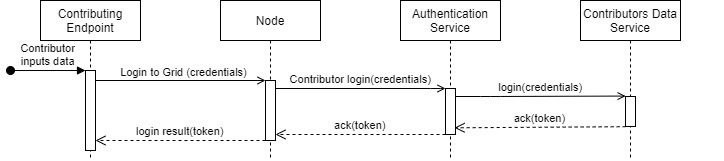
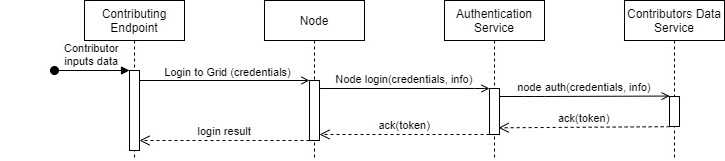
commented Contributor's login

diff --git a/document/chapters/chapter_6/sections/2_use_cases_satisfaction_interaction_among_architectural_elements.tex b/document/chapters/chapter_6/sections/2_use_cases_satisfaction_interaction_among_architectural_elements.tex
@@ -2,38 +2,49 @@
 This section will show how the entities introduced in the Architecture just presented actually cooperate with each other in order to satisfy the use cases previously discussed in \textit{section \ref{use_cases}}. 
 
 \subsection{Contributor}
-\vspace{5mm}
 \begin{itemize}
     \item \textbf{Register}\\
     \begin{figure}[!ht]
         \centering
-        \includegraphics[scale=1.15]{document/chapters/chapter_6/images/use_cases_satisfaction_contributor_register.jpg}
+        \includegraphics[scale=1]{document/chapters/chapter_6/images/use_cases_satisfaction_contributor_register.jpg}
         \caption{Contributor registration}
         \label{fig:use_cases_satisfaction_contributor_register}
     \end{figure}
 
     A Contributor registers to the Grid system creating an account using the Contributor Dashboard; once it has inputted the necessary data, the Dashboard will contact the Authentication with the dedicated API that, in turn, will contact the Contributors Data Service, actually completing the registration process.
-    \vspace{20mm}
 
     \item \textbf{Login}\\
+    When a Contributor performs a Login, both in the Dashboard case and in the Contributing Endpoint, it gets a token that will be used for every subsequent operation for both authenticating the communication with other entities and, at the same time, provide some useful data that will be used by said entities.
+    
+    Since the token is a prerequisite for every further interaction it will be omitted for simplicity in the subsequent single use case satisfaction discussions. 
+     
     \begin{itemize}
-        \item \textit{Login to a Dashboard}\\
-        \item TODO
+        \item \textbf{\textit{Login to a Dashboard}}\\
         \begin{figure}[!ht]
             \centering
-            \includegraphics[scale=1.1]{document/chapters/chapter_6/images/use_cases_satisfaction_contributor_dashboard_login.jpg}
+            \includegraphics[scale=1]{document/chapters/chapter_6/images/use_cases_satisfaction_contributor_dashboard_login.jpg}
             \caption{Contributor Dashboard login}
             \label{fig:use_cases_satisfaction_contributor_dashboard_login}
         \end{figure}
-        \item \textit{Login from any Contributing Endpoint able to Contribute}\\
-        TODO
+
+        The login process performed by a Dashboard is very similar to the registration one, diverging only in the invocation of a different specific API.
+        \vspace{4mm}
+
+        \item \textbf{\textit{Login from any Contributing Endpoint able to Contribute}}\\
         \begin{figure}[!ht]
             \centering
-            \includegraphics[scale=1]{document/chapters/chapter_6/images/use_cases_satisfaction_node_login.jpg}
+            \includegraphics[scale=0.8]{document/chapters/chapter_6/images/use_cases_satisfaction_node_login.jpg}
             \caption{Node login}
             \label{fig:use_cases_satisfaction_node_login}
         \end{figure}
+
+        Here, the Contributor Application is the one actually triggering the Login in its integrated Node; then, the Node's login differs from the Dashboard'one calling another dedicated API that also require to provide some additional info that will uniquely identify the device.
+        
+        The Customer only needs to make the active effort of registering its account; every Contributing Endpoint will be automatically added to its account if the credentials are correct and no matching device for its account is found.
+        One important thing to notice is that the token does not exit the Node's scope.
+
     \end{itemize}
+
     \item \textbf{Passively Contribute offering a compatible device}\\
     \begin{figure}[!ht]
         \centering
